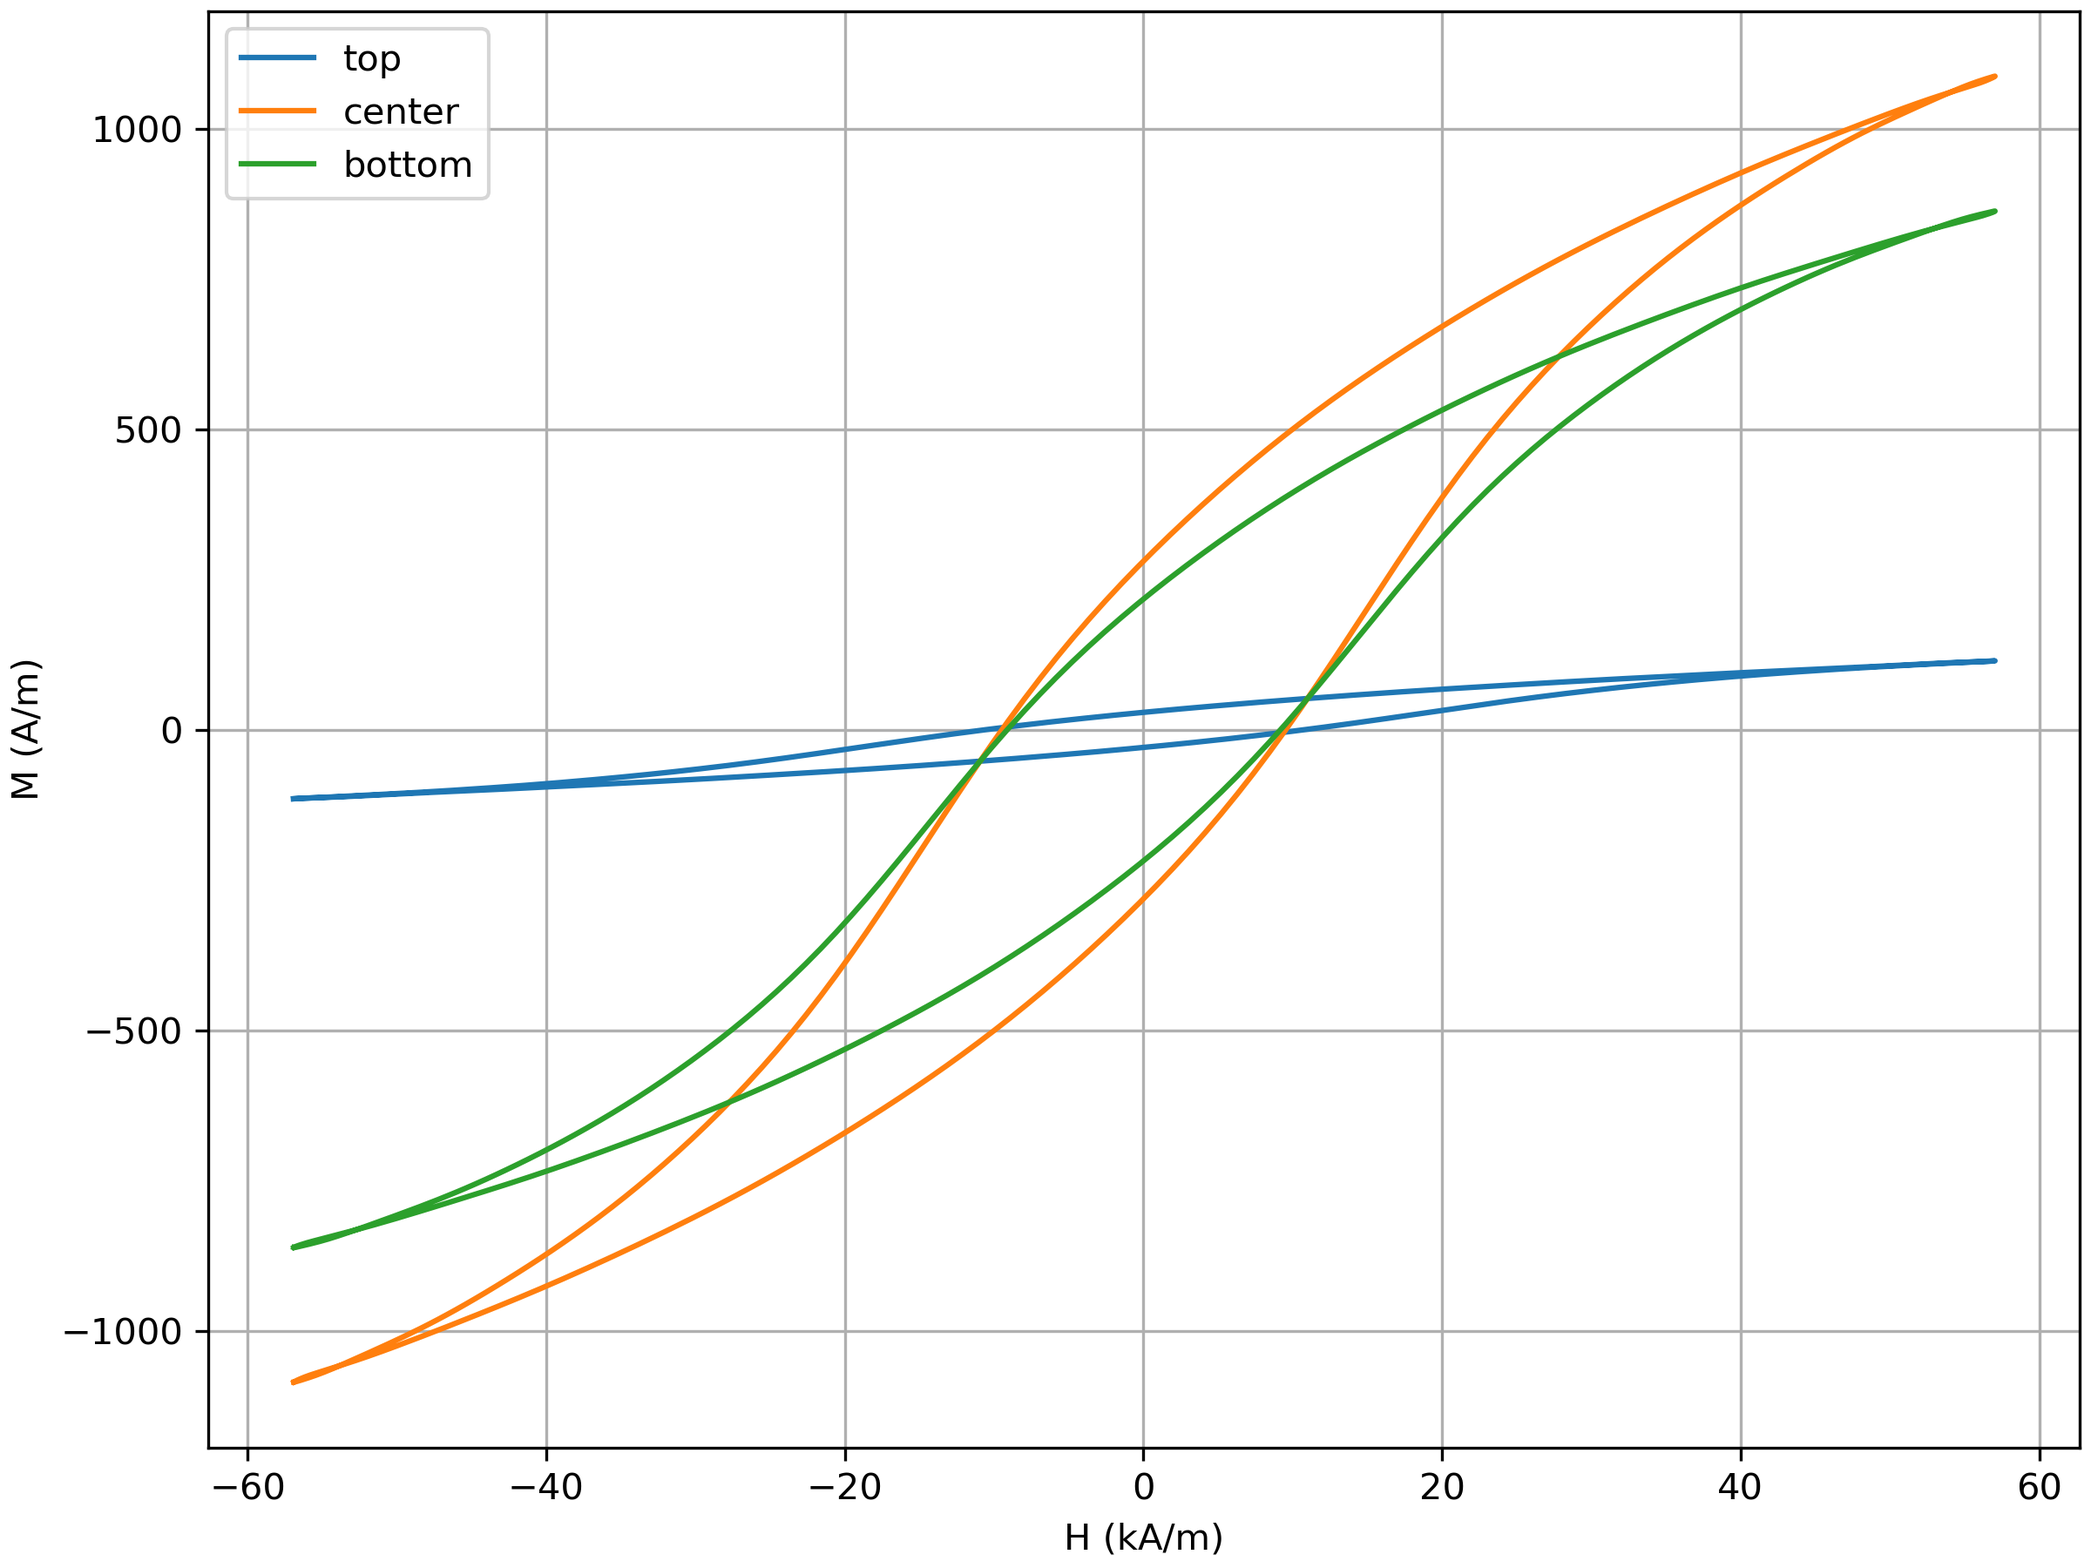
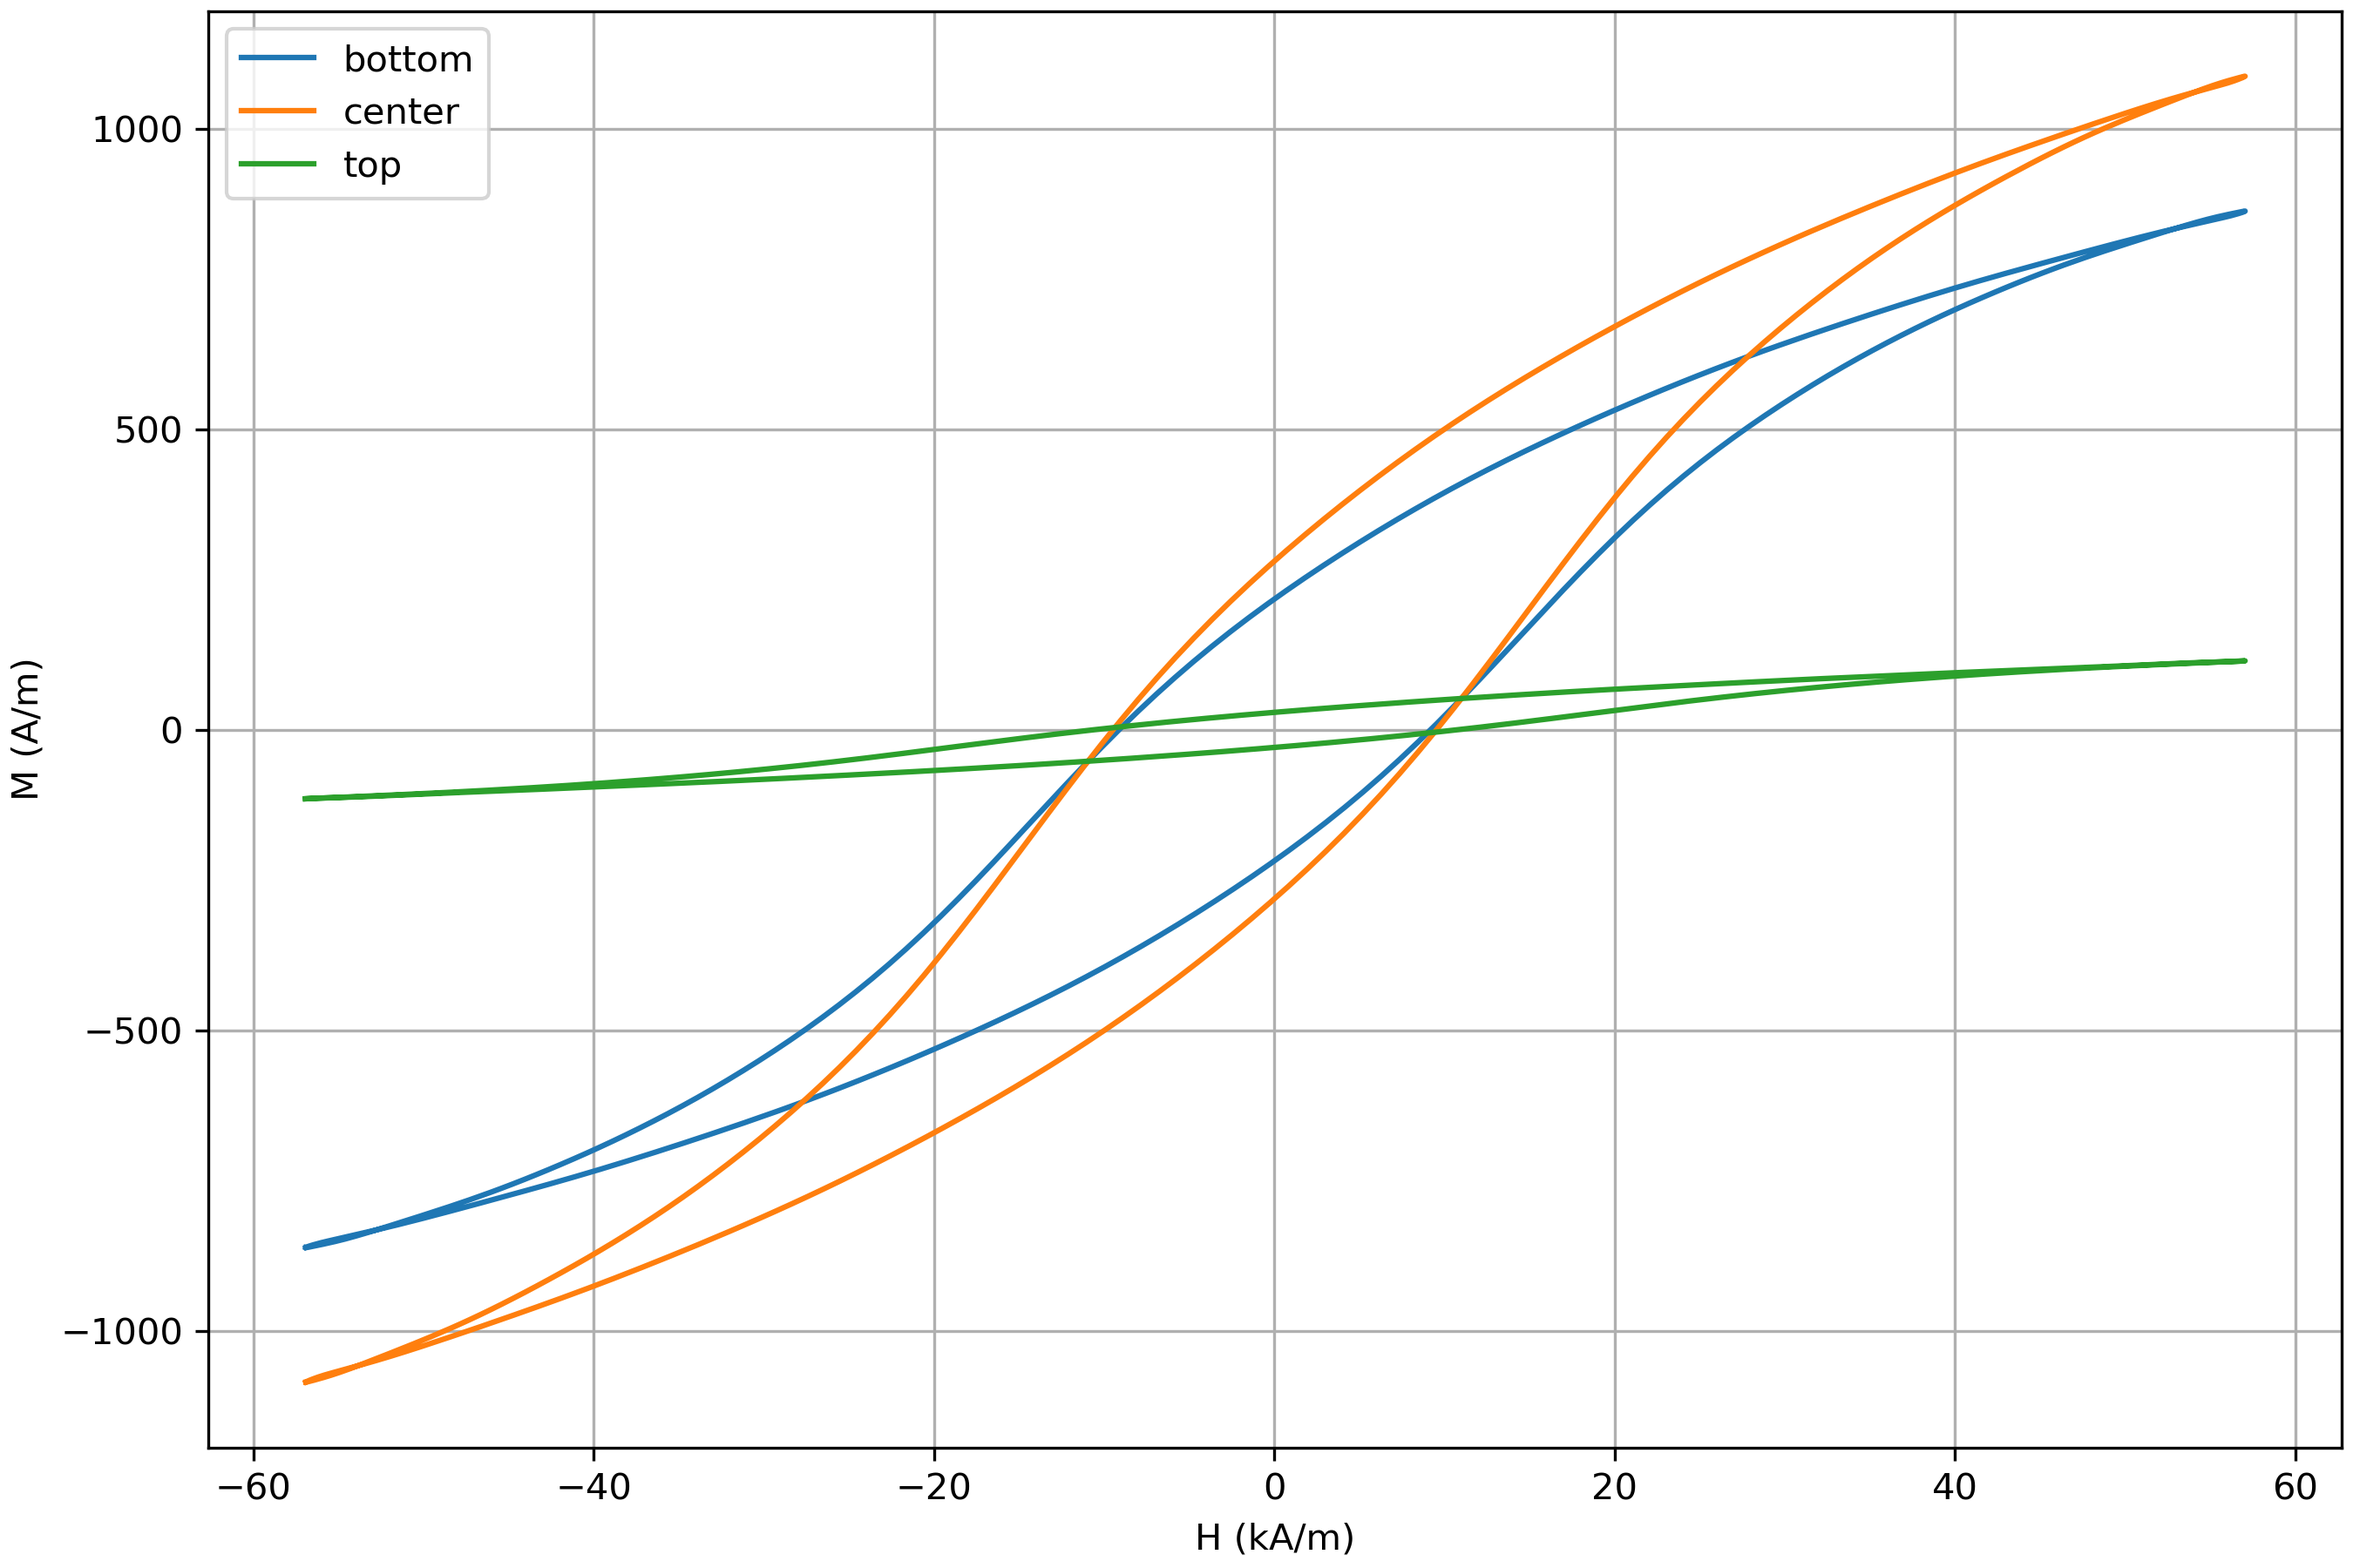
presentacion

diff --git a/comparativa_en_altura_NF.py b/comparativa_en_altura_NF.py
@@ -136,10 +136,10 @@ _,_,_, H_center,M_center,_ = lector_ciclos(ciclo_center[0])
 _,_,_, H_bottom,M_bottom,_ = lector_ciclos(ciclo_bottom[0])
 
 
-fig, ax =plt.subplots(figsize=(8,6),constrained_layout=True)
-ax.plot(H_top/1000,M_top,'-',label='top')
-ax.plot(H_center/1000,M_center,'-',label='center')
+fig, ax =plt.subplots(figsize=(9,6),constrained_layout=True)
 ax.plot(H_bottom/1000,M_bottom,'-',label='bottom')
+ax.plot(H_center/1000,M_center,'-',label='center')
+ax.plot(H_top/1000,M_top,'-',label='top')
 ax.grid()
 ax.set_xlabel('H (kA/m)')
 ax.legend()
@@ -167,30 +167,31 @@ dT_top = res_top.temperatura[-1]-res_top.temperatura[0]
 dT_center = res_center.temperatura[-1]-res_center.temperatura[0]
 dT_bottom = res_bottom.temperatura[-1]-res_bottom.temperatura[0]
 
-fig0, ax = plt.subplots(figsize=(8,5),constrained_layout=True)
-ax.plot(res_top.time,res_top.temperatura,'.-',label=rf'''top
-$\Delta$t={dt_top:.2f} s 
-$\Delta$T={dT_top:.2f} °C
-rate = {dT_top/dt_top:.2f} °C/s
+fig0, ax = plt.subplots(figsize=(10,4),constrained_layout=True)
+ax.plot(res_bottom.time,res_bottom.temperatura,'.-',label=f'''bottom
+$\Delta$t={dt_bottom:.2f} s 
+$\Delta$T={dT_bottom:.2f} °C
+rate = {dT_bottom/dt_bottom:.2f} °C/s
 ''')
 ax.plot(res_center.time,res_center.temperatura,'.-',label=f'''center 
 $\Delta$t={dt_center:.2f} s 
 $\Delta$T={dT_center:.2f} °C
 rate = {dT_center/dt_center:.2f} °C/s
 ''')
-ax.plot(res_bottom.time,res_bottom.temperatura,'.-',label=f'''bottom
-$\Delta$t={dt_bottom:.2f} s 
-$\Delta$T={dT_bottom:.2f} °C
-rate = {dT_bottom/dt_bottom:.2f} °C/s
+ax.plot(res_top.time,res_top.temperatura,'.-',label=rf'''top
+$\Delta$t={dt_top:.2f} s 
+$\Delta$T={dT_top:.2f} °C
+rate = {dT_top/dt_top:.2f} °C/s
 ''')
 ax.grid()
 ax.set_xlabel('t (s)')
 ax.set_ylabel('T (°C)')
-ax.legend()
+ax.legend(ncol=2)
+ax.set_xlim(0,)
 plt.suptitle('Templogs\nNF@cit - 300 kHz & 57 kA/m',fontsize=14)
 plt.savefig('templogs_NF@cit_300kHz_57kAm_top_center_bottom.png',dpi=300)
 #%% tau y SAR vs time/Temp
-fig1, ((ax,ax3),(ax2,ax4)) = plt.subplots(2,2,figsize=(11,7),constrained_layout=True,sharex='col',sharey='row')
+fig1, ((ax,ax3),(ax2,ax4)) = plt.subplots(2,2,figsize=(11,6),constrained_layout=True,sharex='col',sharey='row')
 
 ax.set_title('τ vs t',loc='left')
 ax.plot(res_top.time,res_top.tau,'.-',label='top')
